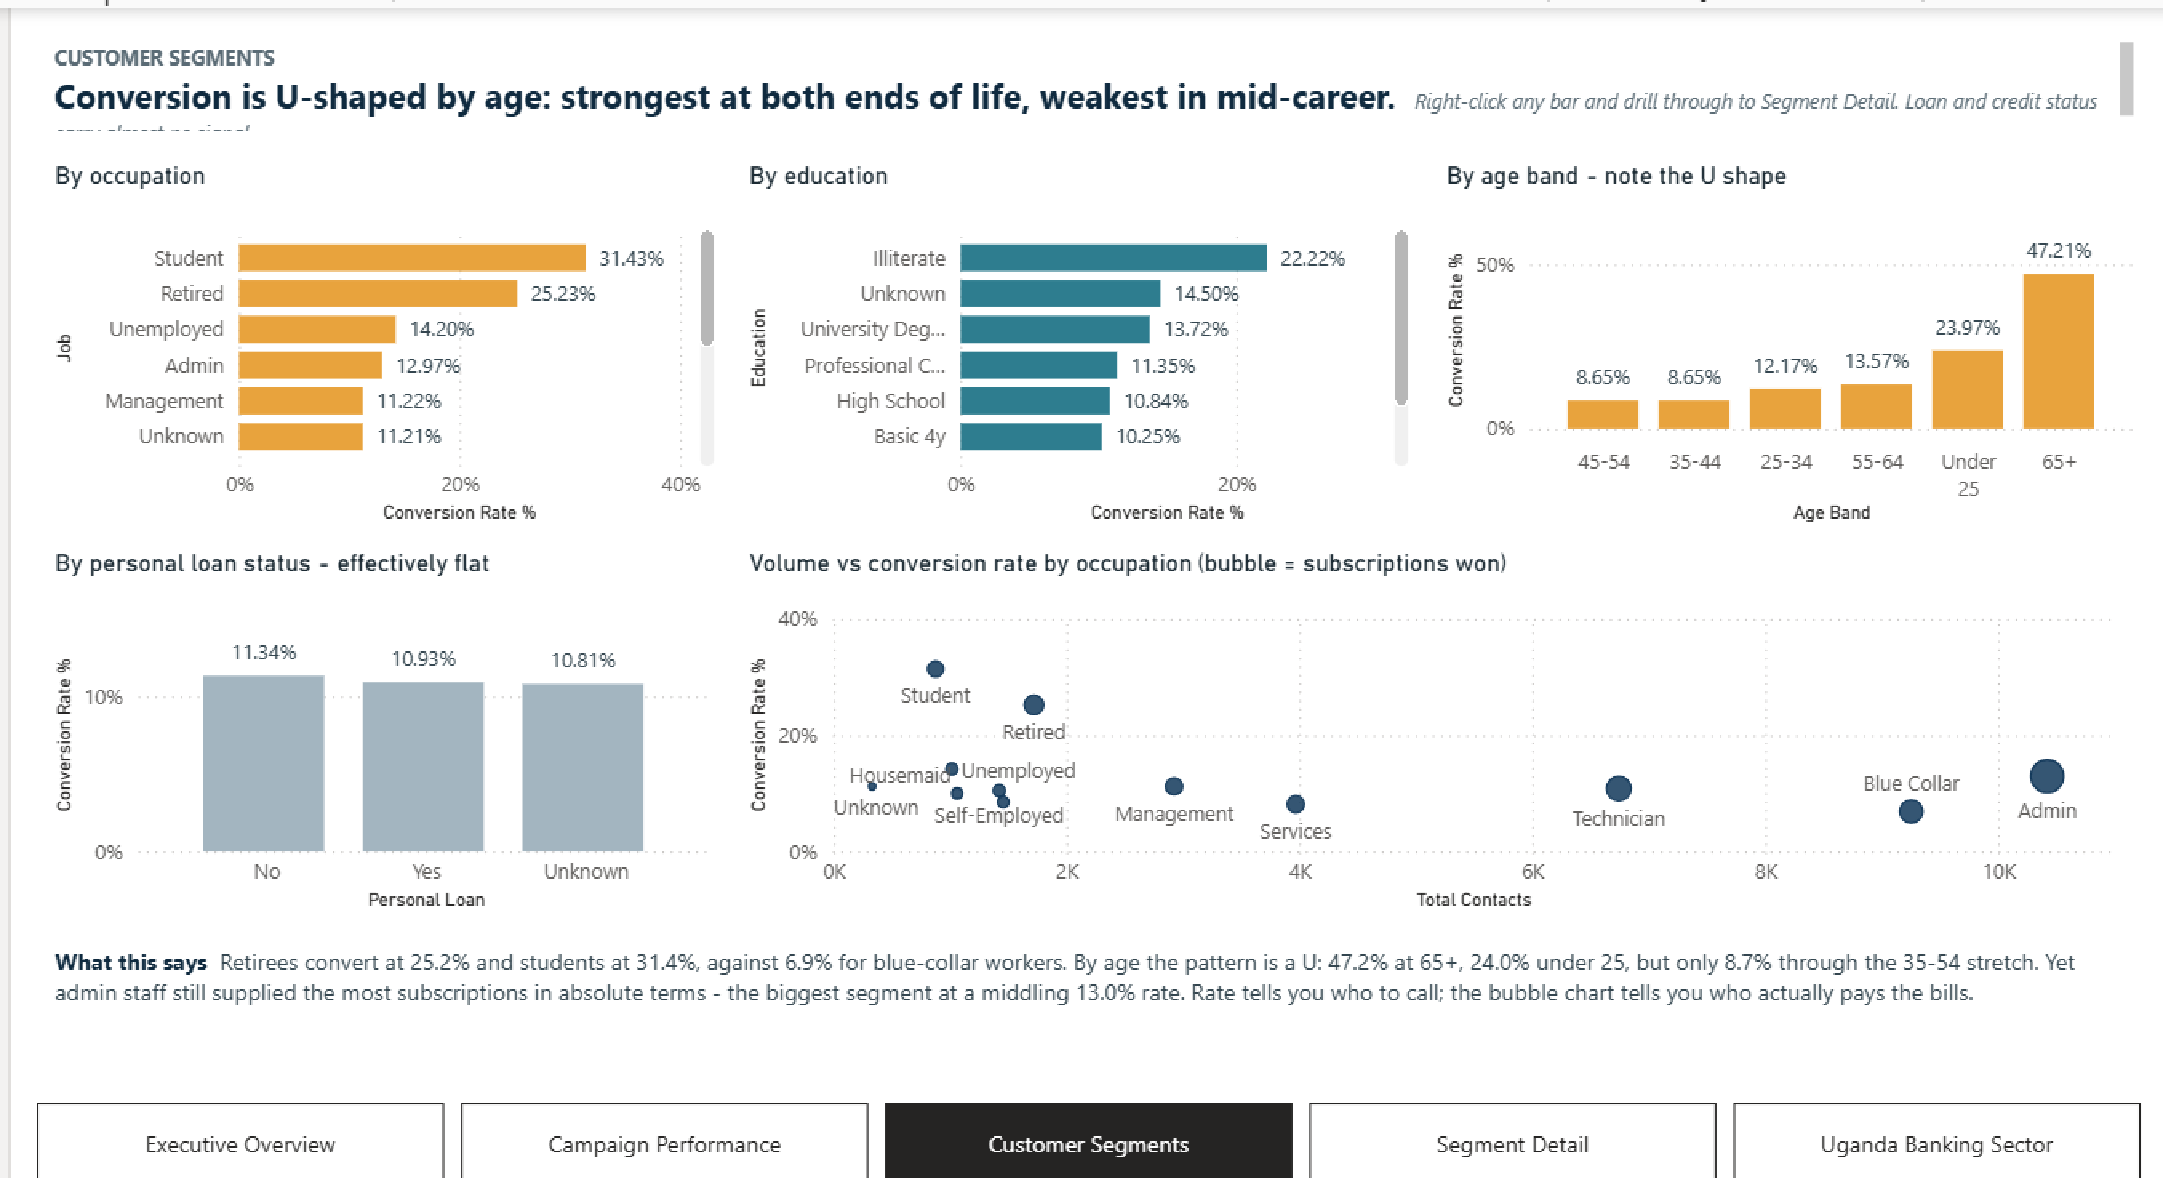
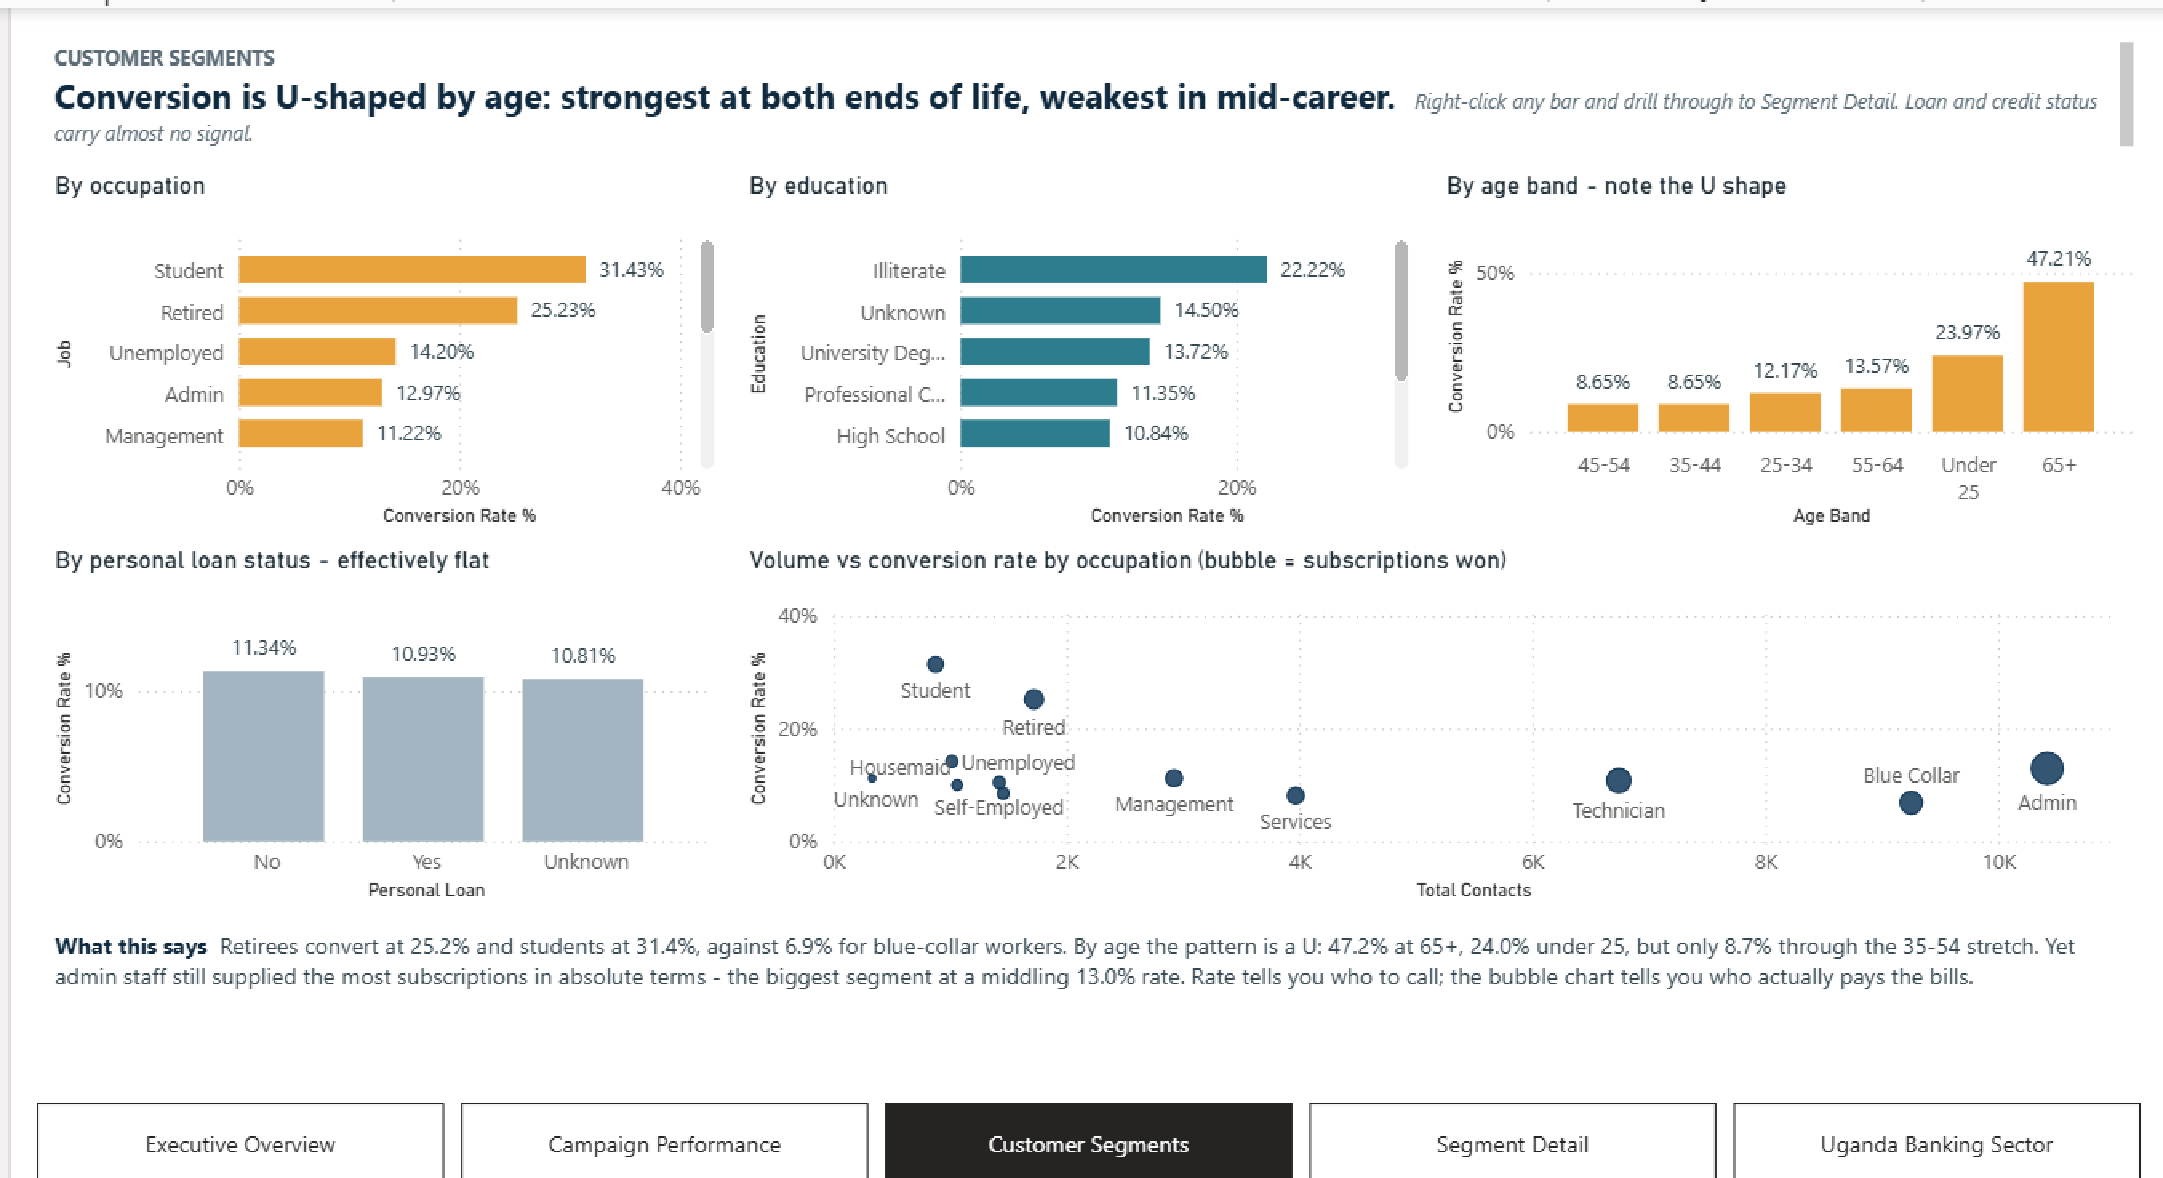
Structure the repo for publication: page docs, all screenshots placed, header fix
- docs/report-pages.md: every page, what question it answers, with its screenshot.
- README gains a 'The report' section carrying all four page images, and a repo
  layout that names each file rather than just the folders.
- Customer Segments header was clipping its second line; that page is reflowed so
  the subtitle shows in full.
- Screenshots recaptured from the packaged copy with data loaded.

Screenshot capture now uses PrintWindow rather than CopyFromScreen. Screen-copy
grabs whatever pixels sit on top of the window, which silently produced
screenshots of File Explorer and of the chat window; PrintWindow reads the
window's own buffer and is independent of focus.

diff --git a/docs/report-pages.md b/docs/report-pages.md
@@ -1,0 +1,89 @@
+# Report pages
+
+Five pages, 1280 × 720, on a shared theme
+(`Bank Marketing.Report/StaticResources/RegisteredResources/BankMarketingTheme.json`).
+Every visual carries alt text; every page carries navigation.
+
+---
+
+## 1. Executive Overview
+
+![Executive Overview](../screenshots/executive-overview.png)
+
+The one-screen answer, laid out as a three-tier pyramid: headline figures, then
+what changed over time, then what to do about it.
+
+- **Left rail** — brand, page navigation, data provenance, campaign period.
+- **KPI band** — four headline figures, each with its change from the first
+  campaign year to the last. These use **pinned** measures, so clicking a bar or a
+  table row cannot silently rewrite the headline.
+- **Contacts vs conversion by month** — the strategy shift as it happened.
+- **Targeting funnel** — cumulative targeting rules, 11.3% → 66.9%.
+- **Where deposits came from** — share of deposits by occupation. Deliberately
+  *share*, not rate: rates do not sum to a whole, so a donut of rates would be
+  meaningless. It also surfaces the split between best rate and biggest source.
+- **Year by year** and **What to do next** — the numbers, then the actions.
+
+## 2. Campaign Performance
+
+![Campaign Performance](../screenshots/campaign-performance.png)
+
+What the campaign actually controlled: channel, timing and contact intensity.
+
+- Channel: mobile 14.7% against landline 5.2%.
+- Weekday of contact: a narrow 2pp spread — timing barely matters.
+- Prior campaign outcome: the strongest single predictor, 65.1% after a prior success.
+- Contact intensity: conversion decays monotonically with the number of calls.
+- Month-by-month table with contacts, conversion and average call length.
+
+## 3. Customer Segments
+
+![Customer Segments](../screenshots/customer-segments.png)
+
+Who converts, and who actually pays the bills.
+
+- By occupation, education and age band — conversion is **U-shaped by age**,
+  strongest at both ends of life.
+- By personal loan status: effectively flat, which is itself a finding — loan and
+  credit status carry almost no signal.
+- Volume vs conversion scatter, bubble sized by deposits won: students and retirees
+  sit high and left (great rate, small volume) while admin staff sit low and right
+  (middling rate, most deposits).
+
+Right-click any bar to drill through to Segment Detail.
+
+## 4. Segment Detail *(drill-through target, hidden)*
+
+Reached by right-clicking a segment on Customer Segments. Filters pass on Job,
+Education and Age Band. The page header names the segment in view, and figures are
+stated against the 11.27% campaign baseline in percentage points.
+
+Not shown here because it is meaningless without a drill-through context.
+
+## 5. Uganda Banking Sector
+
+![Uganda Banking Sector](../screenshots/uganda-banking-sector.png)
+
+Macro context, on its own disconnected calendar — unrelated to the Portuguese
+campaign, and the page says so.
+
+- Latest policy rate, commercial lending rate, lending spread and exchange rate.
+- Central Bank Rate against commercial lending and deposit rates since 2005.
+- UGX per USD, month end.
+
+Two honesty notes are stated on the page itself: the CBR series begins July 2011,
+when Uganda adopted the rate, and lending and deposit rates publish a month behind
+the policy rate, so the "latest" cards can legitimately sit in different months.
+
+---
+
+## Conventions
+
+- **Insight titles.** Every visual title states the finding, not the topic —
+  "Channel: mobile converts nearly 3x landline", not "Conversion by channel".
+- **Data-visual budget.** No page exceeds 8 query-generating visuals. Textboxes and
+  navigation are chrome and cost no query; `tools/validate_pbip.py` counts them
+  separately.
+- **Alt text** on all visuals, chrome included.
+- **Navigation** on every page. The Executive Overview uses a rail of buttons; the
+  other pages use a horizontal navigator at the same position.

diff --git a/README.md b/README.md
@@ -78,16 +78,58 @@ February of 2009 and 2010.
 
 ---
 
+## The report
+
+Five pages. Full detail in [`docs/report-pages.md`](docs/report-pages.md).
+
+### Executive Overview
+
+The one-screen answer — headline figures with their change since 2008, the monthly
+trend, the targeting funnel, and three concrete actions. *Shown at the top of this
+page.*
+
+### Campaign Performance
+
+What the campaign controlled: channel, weekday, prior outcome and contact intensity.
+
+![Campaign Performance](screenshots/campaign-performance.png)
+
+### Customer Segments
+
+Who converts and who pays the bills — occupation, education, age, and a volume vs
+rate scatter. Right-click any bar to drill through to **Segment Detail** (a hidden
+drill-through page, not pictured because it is meaningless unfiltered).
+
+![Customer Segments](screenshots/customer-segments.png)
+
+### Uganda Banking Sector
+
+Macro context on its own disconnected calendar, deliberately unrelated to the
+Portuguese campaign.
+
+![Uganda Banking Sector](screenshots/uganda-banking-sector.png)
+
+---
+
 ## Repo layout
 
 ```
-Bank Marketing.pbip                    project entry point
+Bank Marketing.pbip                    project entry point - open this
 Bank Marketing.SemanticModel/          TMDL: tables, measures, relationships, M queries
 Bank Marketing.Report/                 PBIR: pages, visuals, theme
-data/                                  source CSVs + the UCI data dictionary
-docs/measures.md                       generated reference for all 46 measures
-tools/validate_pbip.py                 offline validator, run it after any edit
-screenshots/
+data/
+  bank-additional-full.csv             UCI Bank Marketing, 41,188 rows
+  bank-additional-names.txt            UCI's own column documentation
+  BOU_Uganda_Monthly.csv               Bank of Uganda monthly rates, 1,474 rows
+  README.md                            provenance, quirks and sentinels
+docs/
+  report-pages.md                      every page, what it answers, screenshots
+  semantic-model.md                    tables, columns, relationships
+  measures.md                          all 46 measures, generated from the TMDL
+  findings.md                          the analysis, with every figure verified
+screenshots/                           one PNG per visible page
+tools/
+  validate_pbip.py                     offline validator - run after any edit
 ```
 
 ---
@@ -162,7 +204,7 @@ joined to `DimUgandaMonth` and `DimIndicator`.
 the stages are cumulative filters rather than a column in the data.
 
 **`_Measures`** holds every measure. Folders are numbered so they sort in reading
-order — see [`docs/measures.md`](docs/measures.md).
+order — see [`docs/measures.md`](docs/measures.md) and [`docs/semantic-model.md`](docs/semantic-model.md).
 
 Two conventions worth knowing before editing:
 
